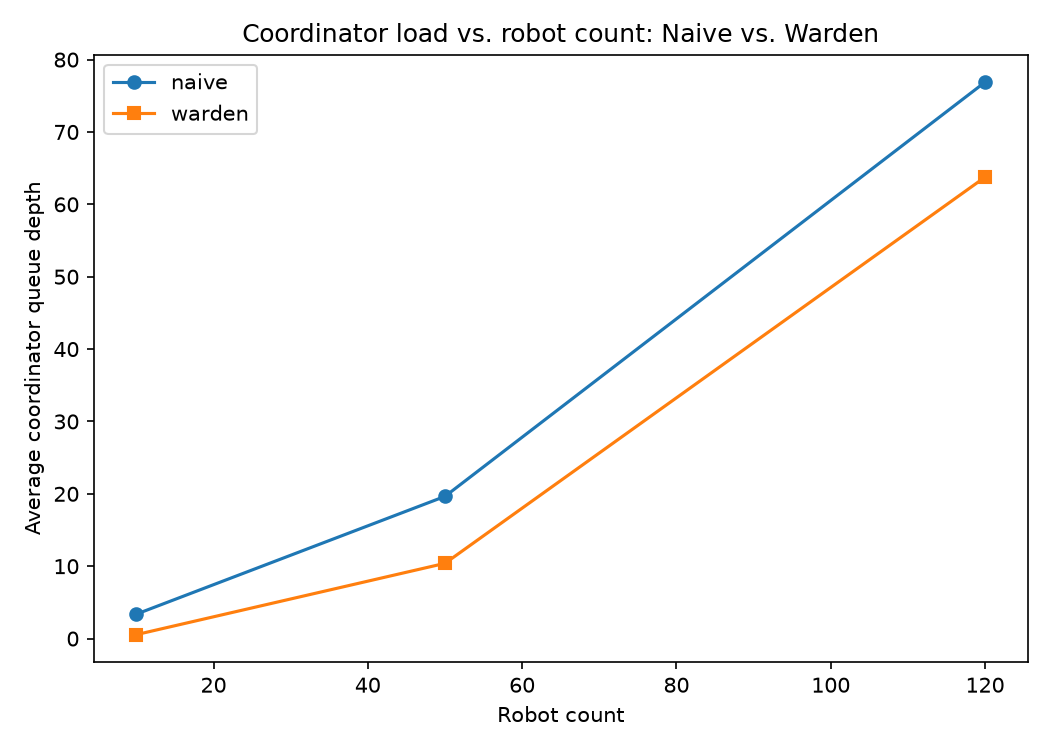
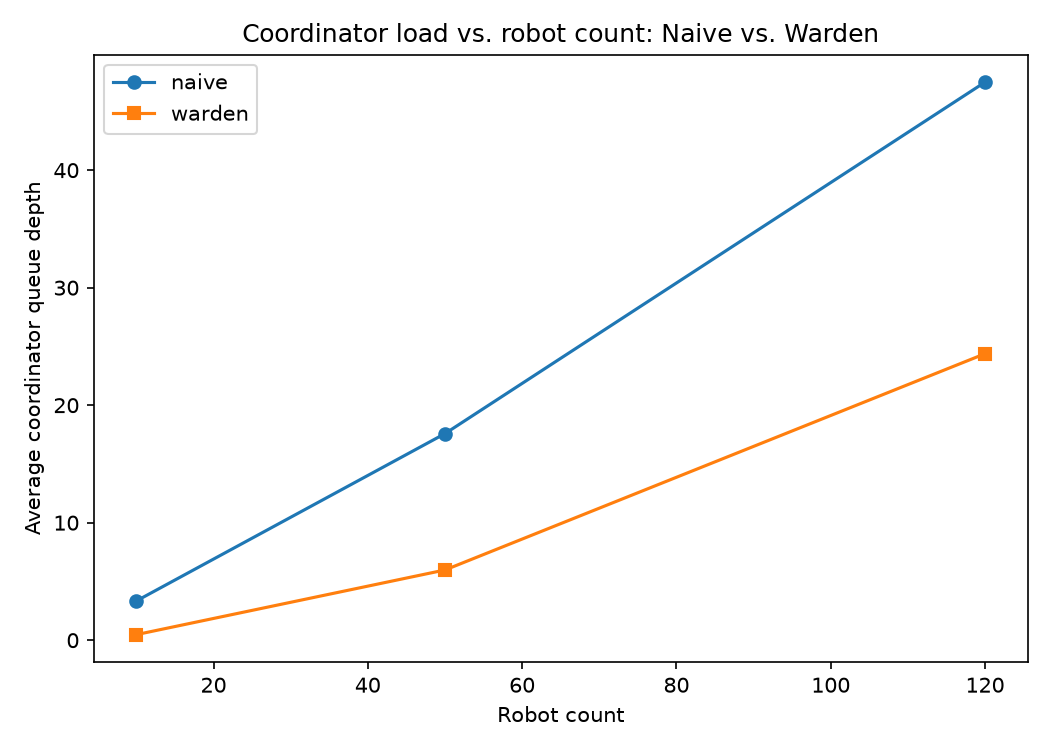
Rerun benchmark results and rewrite README in plainer language
Regenerated results/benchmark_results.csv and coordinator_load.png via
python -m sim.scenarios and updated the Measured results table to match.
Also loosened up the README's tone throughout and added a venv/pycache
cleanup snippet to the Setup section.

diff --git a/README.md b/README.md
@@ -1,34 +1,36 @@
 # Warden
 
-Collision-free warehouse robot coordination — a two-tier fast-reject-then-confirm
-scheme, benchmarked and demoed live against a naive always-ask baseline.
+A demo of collision-free warehouse robot coordination, comparing a naive
+"ask-before-every-move" coordinator against a faster two-tier scheme called Warden.
 
-A fleet of robots shares one warehouse floor grid. Before entering a cell, a robot
-needs to know whether another robot is about to occupy it. Asking a central
-coordinator before *every* move (naive mode) is exact but floods the coordinator as
-the fleet grows. Warden mode gives each robot a local **Ribbon filter** — "cells I
-believe are claimed" — so it can proceed instantly on the common case (nobody's
-there) and only pay for a real confirm-check against the coordinator's **ring
-buffer** (exact ground truth) when the filter says "maybe."
+Picture a fleet of robots sharing one warehouse floor. Before a robot steps into a
+cell, it needs to know nobody else is about to step into the same one. The naive
+way is to ask a central coordinator before every single move — always correct, but
+it turns the coordinator into a bottleneck as the fleet grows. Warden instead gives
+each robot a local **Ribbon filter**, basically a cheat sheet of "cells I think are
+claimed." Most of the time the filter says "clearly free" and the robot just goes.
+Only when it says "maybe claimed" does the robot pay for a real check against the
+coordinator's **ring buffer**, which is the actual source of truth.
 
-This is a portfolio/demo project — a working browser demo and an honestly-measured
-benchmark, not a production distributed system. See [Scope](#scope--whats-not-here)
-below.
+This is a portfolio/demo project, not a production distributed system — a working
+browser demo plus honestly-measured benchmarks. See [Scope](#scope--whats-not-here)
+for what's deliberately left out.
 
 ## Architecture
 
 - **`core-rs/`** (Rust, via PyO3) — the two data structures the whole scheme rests on:
-  - `ribbon_filter.rs` — per-robot local filter, near-optimal memory per key, zero
-    false negatives against what it's been told.
-  - `ring_buffer.rs` — coordinator-held, fixed-capacity, self-expiring log of real
+  - `ribbon_filter.rs` — the per-robot local filter. Small memory footprint per key,
+    and it never gives a false "definitely free" for something it was actually told
+    about.
+  - `ring_buffer.rs` — the coordinator's fixed-capacity, self-expiring log of real
     claims. O(1) insert/evict.
 - **`core/`** (Python) — the physics and coordination logic:
-  - `grid_world.py` — NxN grid, greedy movement, and the ground-truth collision
-    guarantee (the live occupancy check is always the final authority, independent
-    of whatever a policy approved).
+  - `grid_world.py` — the NxN grid, greedy movement, and the ground-truth collision
+    guarantee (the live occupancy check always has final say, no matter what a
+    policy approved).
   - `coordinator.py` — `Coordinator` (naive: every move goes through a simulated
     1–3 tick confirm-check) and `WardenCoordinator` (filter says free → instant
-    move; filter says maybe → delegates to `Coordinator`).
+    move; filter says maybe → falls back to `Coordinator`).
   - `robot.py` — the `Robot` dataclass (position, target, blocked-tick counter).
 - **`sim/`** — `simulator.py` drives the tick loop; `scenarios.py` is the
   density-preset benchmark harness.
@@ -51,6 +53,14 @@ source "$HOME/.cargo/env"   # after rustup install, if it was just installed
 
 After editing any `.rs` file under `core-rs/src/`, rerun `maturin develop` before
 the next `pytest` — the Python side imports a compiled extension, not the source.
+
+To leave the venv and clean up build artifacts:
+
+```bash
+deactivate                                              # leave the venv
+find . -type d -name "__pycache__" -exec rm -rf {} +    # clear cached bytecode
+rm -rf .venv                                             # optional: drop the venv entirely
+```
 
 ## Running the tests
 
@@ -81,47 +91,63 @@ python -m sim.scenarios
 ```
 
 Runs 5 seeds × 3 density presets (10 / 50 / 120 robots) × naive/Warden, 1,500 ticks
-each, on a fixed 30×30 grid — over 1.6M simulated moves. Writes
+each, on a fixed 30×30 grid — over 1.5M simulated moves. Writes
 `results/benchmark_results.csv` and `results/coordinator_load.png`.
 
 ## Measured results
 
-Headline numbers, measured (not estimated) via `python -m sim.scenarios` — 5 seeds
-× 3 density presets × naive/Warden, 1,500 ticks each, over 1.6M simulated moves.
-Traffic reduction narrows under heavy contention, it is not flat across density:
+These numbers are measured, not estimated — run `python -m sim.scenarios` yourself
+and you'll get the same shape of result (5 seeds × 3 density presets × naive/Warden,
+1,500 ticks each, over 1.5M simulated moves total). Raw data is in
+`results/benchmark_results.csv`; the chart is `results/coordinator_load.png`.
 
 | Density | Robots | Warden instant % | Reduction vs. naive |
 | --- | --- | --- | --- |
-| sparse | 10 | 94.1% | 84.0% |
-| moderate | 50 | 71.2% | 46.9% |
-| crowded | 120 | 19.1% | 17.1% |
+| sparse | 10 | 94.9% | 85.9% |
+| moderate | 50 | 85.4% | 66.0% |
+| crowded | 120 | 70.7% | 48.7% |
 
-Coordinator queue depth is lower for Warden at every density tested, by a shrinking
-margin as contention rises (see `results/coordinator_load.png`).
+In plain terms: with only 10 robots on the floor, almost every move is instant —
+Warden's filter is right almost all the time, so the coordinator barely gets
+bothered. Pack 120 robots onto the same grid and cells get contested constantly,
+so more moves need a real confirm-check — but Warden's cheat-sheet approach still
+cuts coordinator traffic almost in half compared to asking every time.
 
-## The staleness finding
+A CPU profiling pass at the crowded density (120 robots) shows the coordinator's
+share of total CPU time rising from about 12% under naive to about 35% under
+Warden — the filter checks themselves aren't free, so at high contention Warden
+trades some of its traffic savings for extra local computation. Coordinator queue
+depth is still lower for Warden at every density tested (see
+`results/coordinator_load.png`), just by a shrinking margin as contention rises.
 
-Because a robot's local filter only refreshes periodically, it can say "definitely
-free" for a cell another robot claimed moments ago, whose broadcast hasn't
-propagated yet — that path skips the confirm-check entirely. A dedicated adversarial
-test (`tests/test_staleness.py`, filter frozen for 5,000 ticks) exercises this
-deliberately: near-misses are common under adversarial settings (~33% of moves), but
-**zero collisions**, because the grid's live occupancy check is the final authority
-on every move regardless of what any policy approved — filter/ring-buffer staleness
-can produce a wrong "go ahead," never a wrong outcome.
+## What happens when a filter goes stale?
 
-Honest limitation: that guarantee is a property of this single-process simulation's
-synchronous ground truth (checking and updating occupancy is one in-process
-operation with no propagation delay) — not a claim about what a real distributed
-deployment's guarantee would be, where "ground truth" would itself be spread across
-robots and a coordinator, each with its own network delay.
+A robot's local filter only gets refreshed every so often, so there's a window
+where it can say "definitely free" about a cell another robot claimed a moment
+ago — the broadcast just hasn't caught up yet. When that happens the robot skips
+the confirm-check entirely, on bad information.
+
+There's a dedicated stress test for exactly this (`tests/test_staleness.py`, which
+freezes a filter for 5,000 ticks to force the worst case). Under those adversarial
+conditions, the robot gets it wrong about a third of the time — but the result is
+always a near-miss (the move gets rejected), never an actual collision. That's
+because the grid's live occupancy check has the final word on every move,
+regardless of what any filter or coordinator approved. A stale filter can only lead
+to a bad guess, never a bad outcome.
+
+Worth being honest about the limits of that guarantee: it holds because this is a
+single process, where checking and updating occupancy happen as one atomic step
+with zero propagation delay. That's not a claim about how a real distributed
+warehouse would behave — there, "ground truth" is spread across many machines,
+each with its own network lag, and this exact guarantee wouldn't come for free.
 
 ## Scope — what's not here
 
-By design, not oversight (portfolio/demo piece, not a production system):
+This is a portfolio piece, not a production system, and some things are left out
+on purpose rather than by oversight:
 
-- No real networking — the coordinator's "network call" is a simulated tick delay.
-- Single coordinator, no sharding — correct at any fleet size this demo animates
-  (up to ~150 robots).
-- No rigorous academic-grade filter benchmarking (memory/FP-rate sweeps) — one
-  credible, honestly-measured number per metric, not a research sweep.
+- No real networking — the coordinator's "network call" is just a simulated delay.
+- One coordinator, no sharding — that's fine at the fleet sizes this demo
+  animates (up to ~150 robots), but wouldn't scale further as-is.
+- No exhaustive filter benchmarking (memory/false-positive-rate sweeps) — just one
+  credible, honestly-measured number per metric, not a research-grade study.
